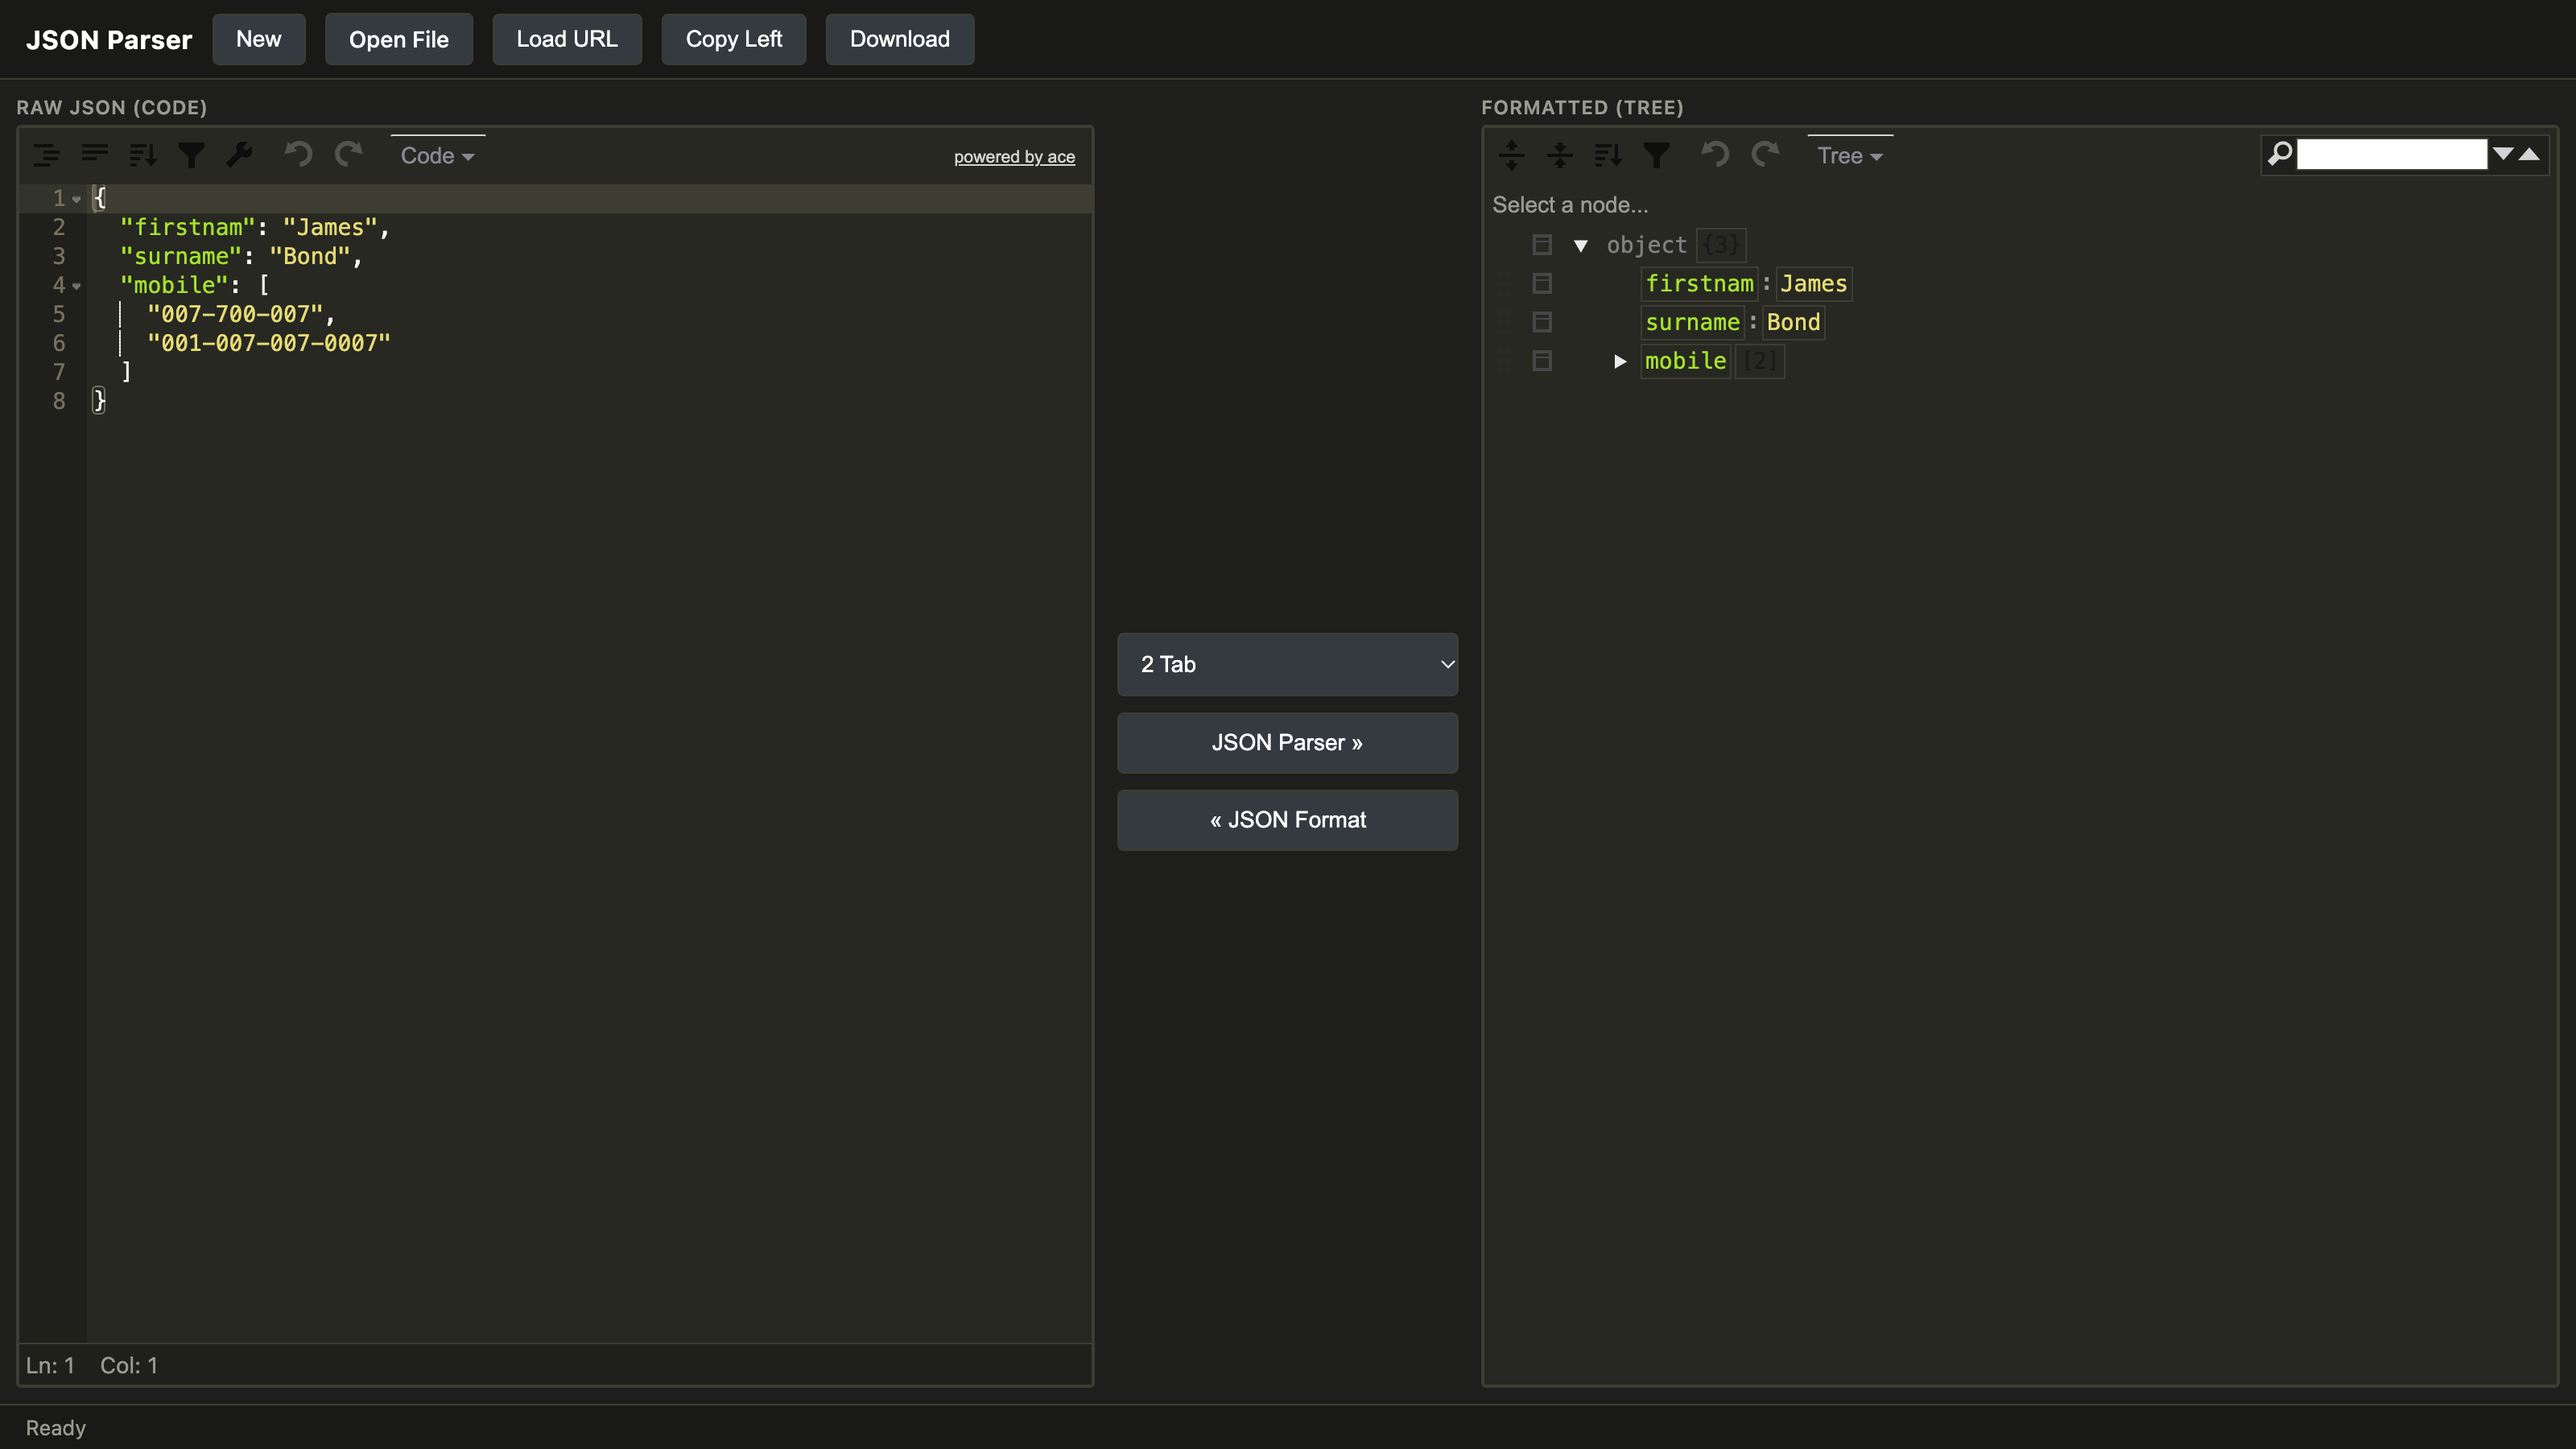
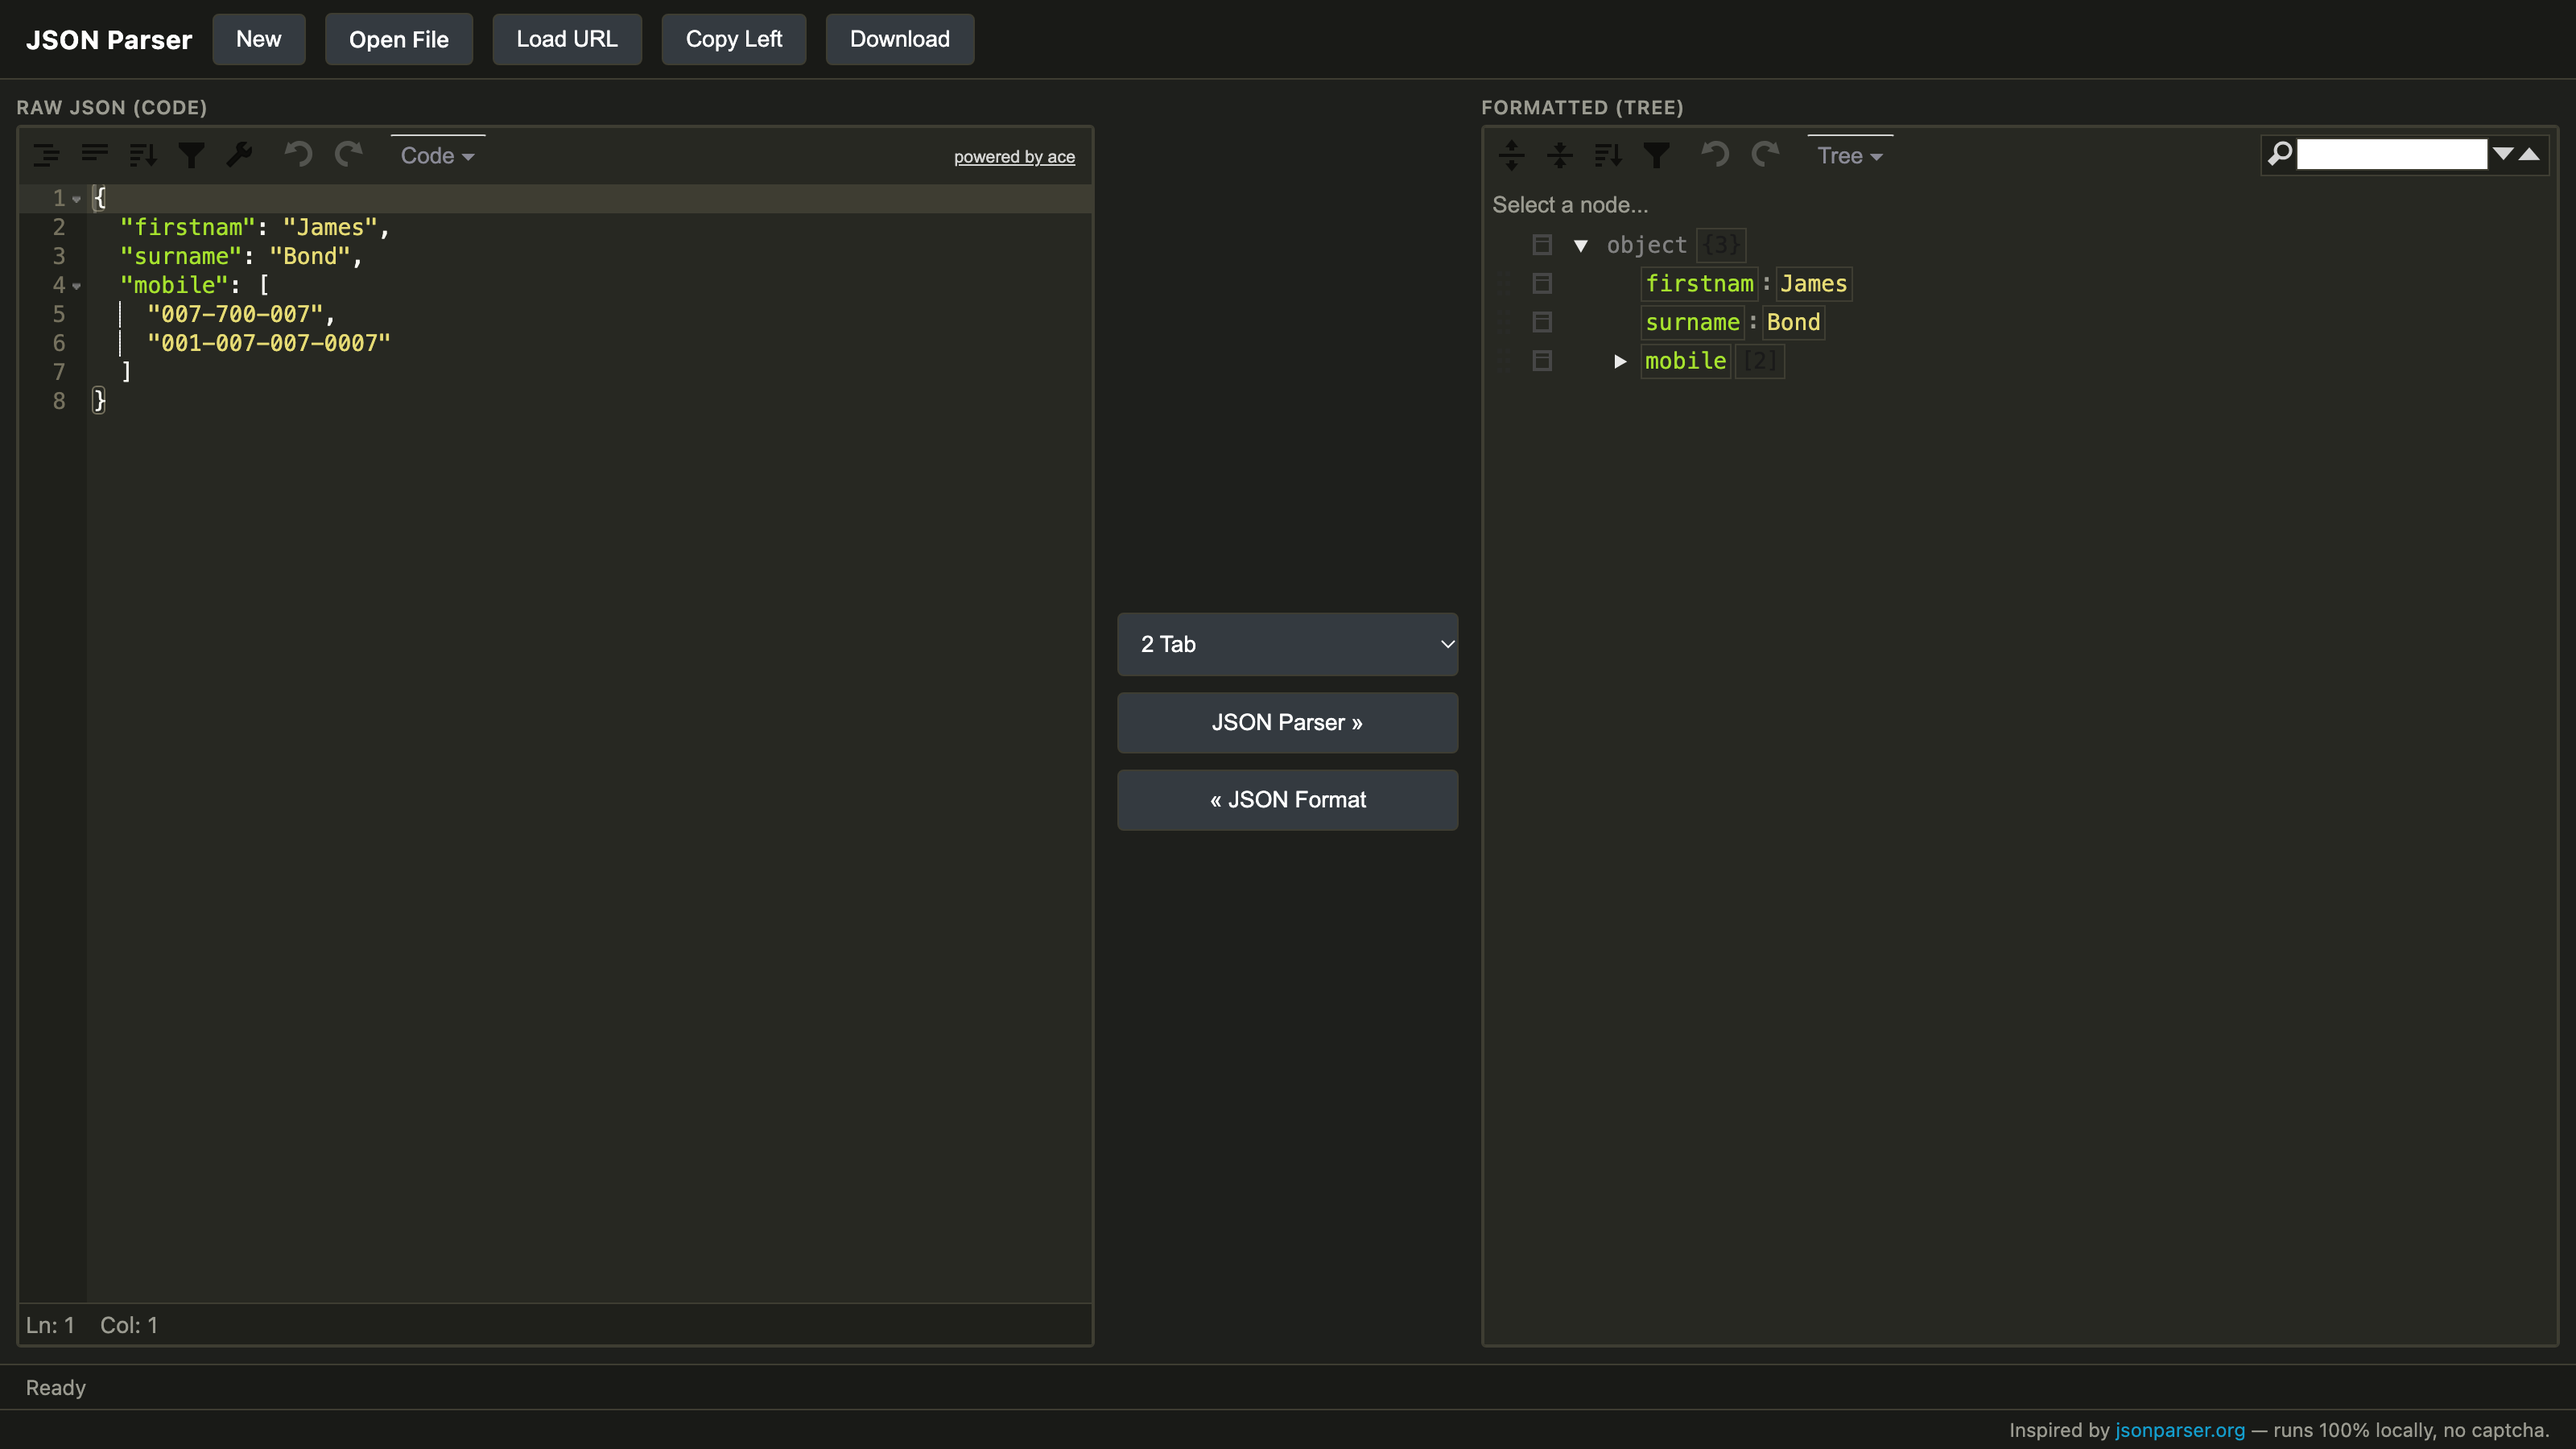
Add footer credit linking back to jsonparser.org

Changed region(s): [[0.0, 0.9022, 0.4375, 0.9956], [0.4375, 0.4044, 0.5625, 0.5911], [0.7812, 0.9644, 1.0, 0.9956]]

diff --git a/index.html b/index.html
@@ -74,6 +74,13 @@
   .status.ok { color: #7ee0a2; }
   .status.err { color: #ff8a8a; }
 
+  .footer {
+    flex: 0 0 auto; padding: 5px 16px; font-size: 12px; color: var(--muted);
+    background: var(--bar); border-top: 1px solid var(--border); text-align: right;
+  }
+  .footer a { color: var(--accent); text-decoration: none; }
+  .footer a:hover { text-decoration: underline; }
+
   /* ===== Dark editor frame ===== */
   .jsoneditor.jsoneditor-mode-code,
   .jsoneditor.jsoneditor-mode-tree { border-color: var(--border) !important; }
@@ -180,6 +187,10 @@
   </div>
 
   <div id="status" class="status">Ready</div>
+
+  <footer class="footer">
+    Inspired by <a href="https://jsonparser.org" target="_blank" rel="noopener noreferrer">jsonparser.org</a> &mdash; runs 100% locally, no captcha.
+  </footer>
 
   <div id="page-drop"><div class="card">Drop JSON file to load</div></div>
 
